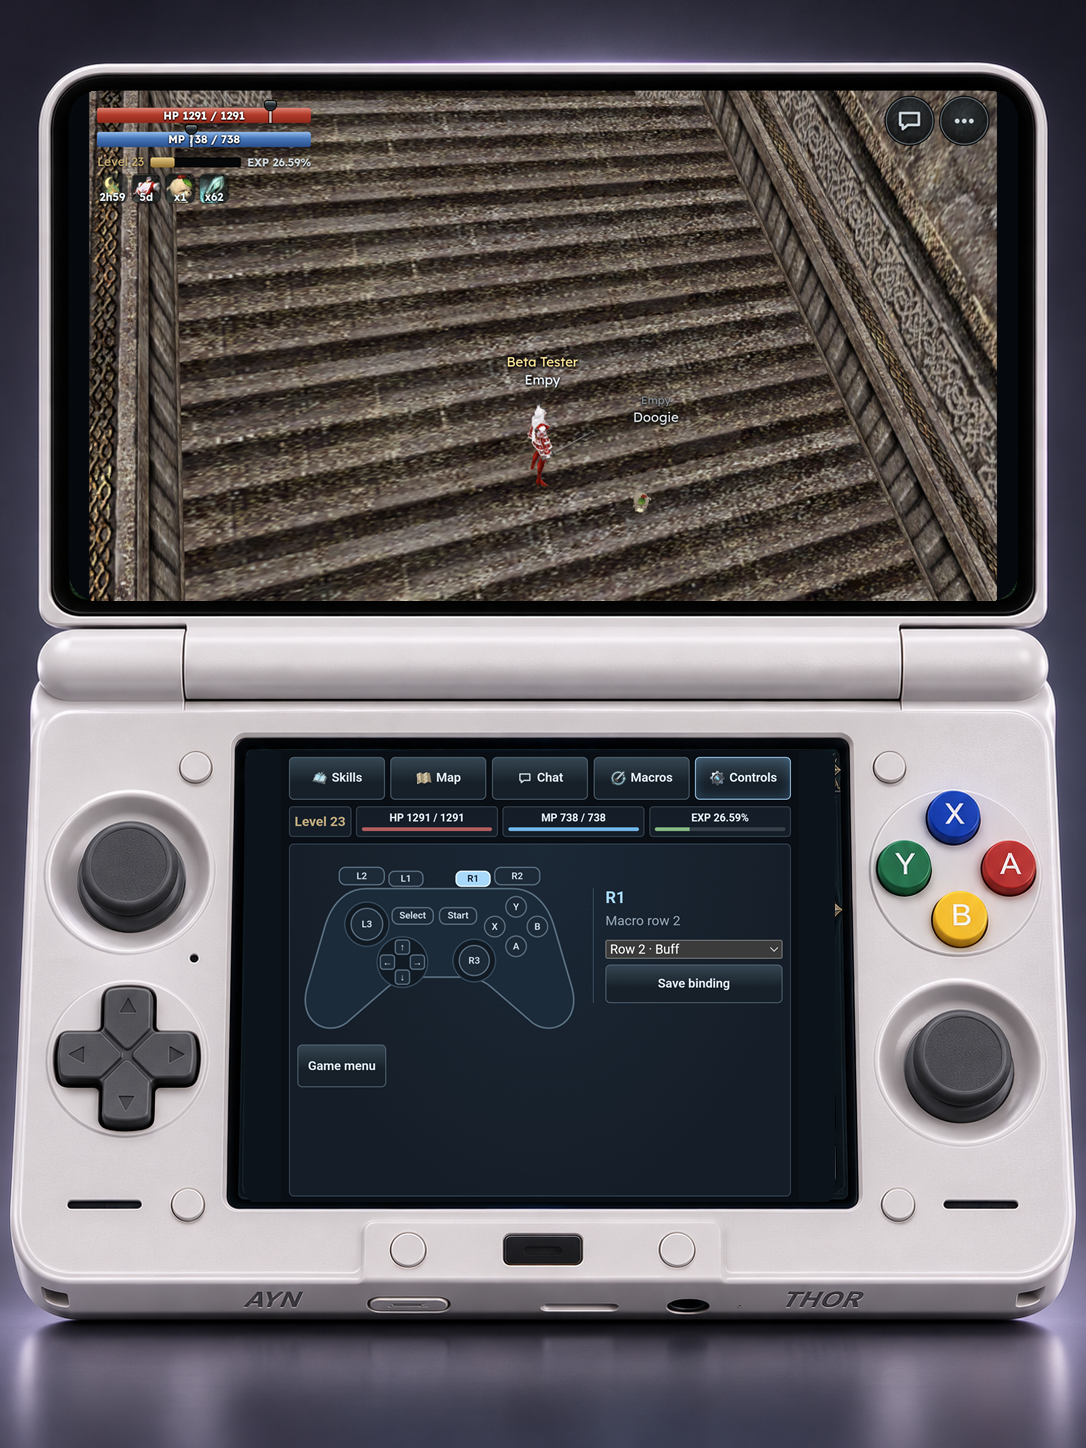
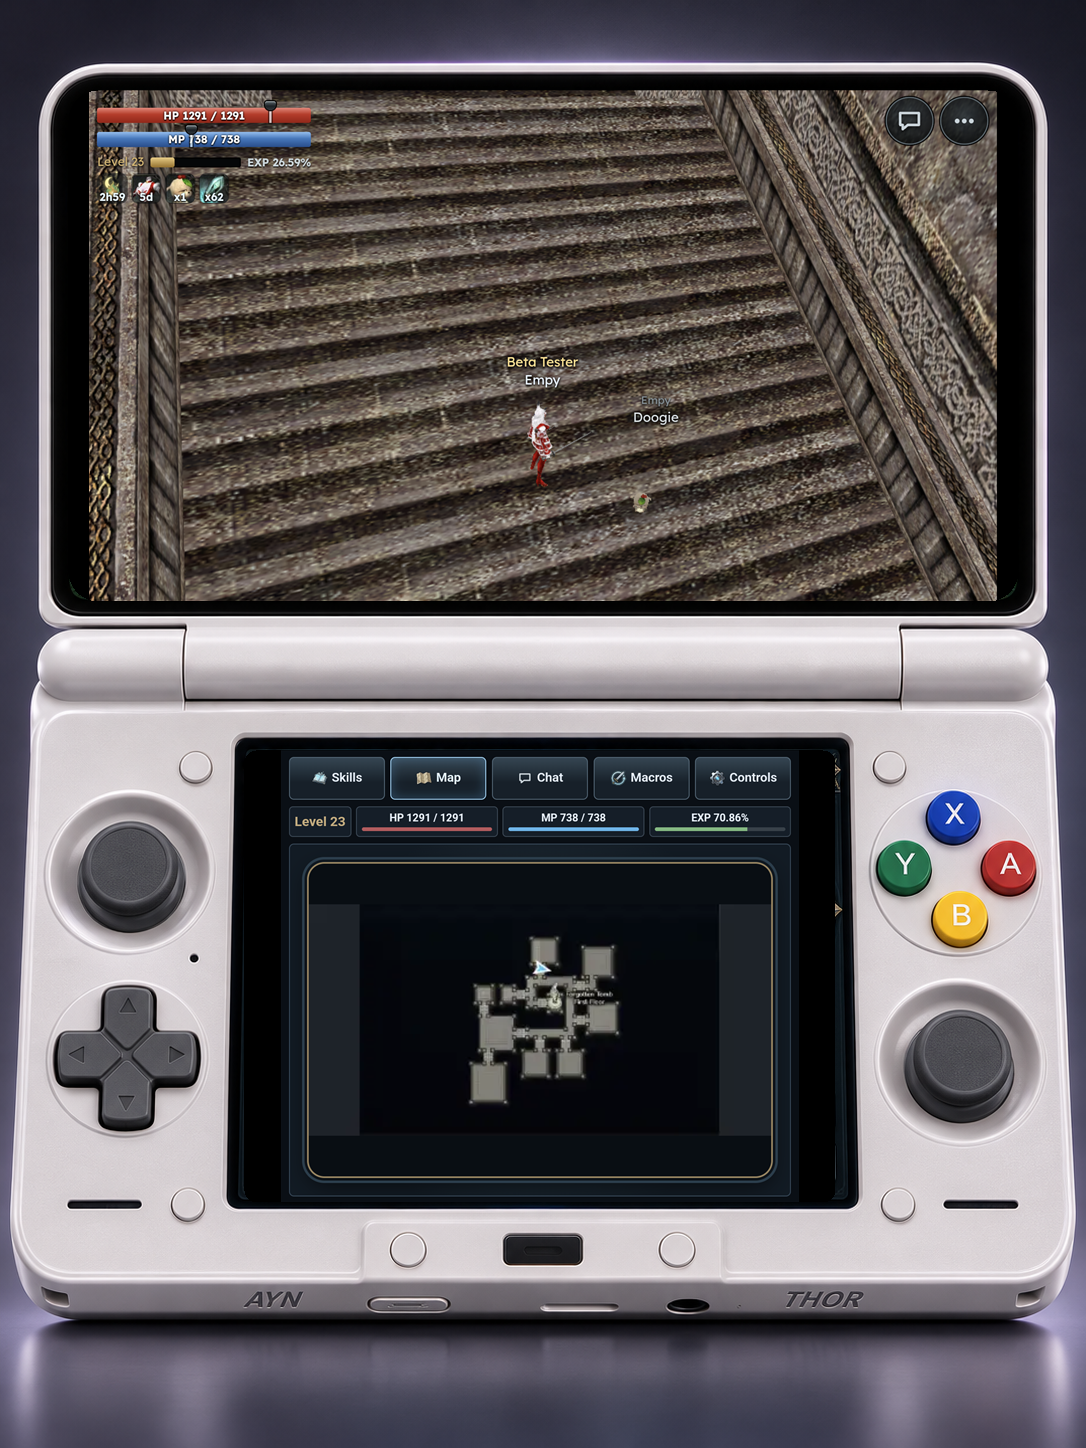
Support recorded controller combinations

Changed region(s): [[0.2127, 0.4972, 0.7901, 0.8391], [0.4254, 0.5283, 0.4558, 0.5594]]

diff --git a/assets/panel.html b/assets/panel.html
@@ -132,6 +132,7 @@ nav{gap:6px}nav button{min-height:44px}
 <script>
 const $=id=>document.getElementById(id), tabs=[...document.querySelectorAll('nav button')];
 const keys={'4':'X','5':'Y','6':'R1','A3':'L2','A4':'A','A5':'B','A6':'R2'};
+for(const [index,key] of Object.entries({0:'A4',1:'A5',2:'4',3:'5',5:'6',6:'A3',7:'A6'}))keys['C4_'+index]='L1 + '+keys[key];
 const padCodes={BUTTON_X:'2',BUTTON_Y:'3',BUTTON_R1:'4',BUTTON_L2:'5',BUTTON_A:'6',BUTTON_B:'7',BUTTON_R2:'8'};
 let d={},tab=0,mode=false,cursor=-1,group='inv',row=0,macroSlot=0,pending=false,complete,timer,restored=false,lastSelect=null,mapRequested=false;
 let skillBindings={},macroBindings={},whisper='', selectedSkill='', pickSkill=false, pickMacro=false;
@@ -184,6 +185,7 @@ window.padKey=k=>{
  if(k==='BUTTON_START'){if(mode)toggleNav();select(4);send('nav','start');return}
  const native={DPAD_UP:'up',DPAD_DOWN:'down',DPAD_LEFT:'left',DPAD_RIGHT:'right',DPAD_CENTER:'accept',BUTTON_A:'accept',BUTTON_B:'back'};
  if(d.nativeMenu&&native[k]){if(mode)toggleNav();send('nav',native[k]);return}
+ if(!d.nativeMenu&&!mode&&localHeld.has(4)&&index!==4&&index!=null&&activeBindings()['C4_'+index]){send('combo','C4_'+index);return}
  if(k==='BUTTON_THUMBL'||k==='BUTTON_THUMBR'){if(!mode&&!d.nativeMenu)send('combat',k==='BUTTON_THUMBL'?'target':'attack');return}
  if(k==='BUTTON_SELECT'||k==='BUTTON_MODE'){toggleNav();return}
  if(mode){
@@ -214,9 +216,9 @@ function captureRelease(){
  if(!capture)return;
  capture.pressed=new Set([...capture.pressed].filter(i=>localHeld.has(i)));
  if(capture.pressed.size)return;
- const values=[...capture.candidate],key=sourceFor[values[0]],binding=activeBindings()[key];
+ const values=[...capture.candidate],other=values.find(i=>i!==4),key=values.length===2&&values.includes(4)?'C4_'+other:sourceFor[values[0]],binding=activeBindings()[key];
  let error='';
- if(values.length!==1)error='Button combinations are not supported yet.';
+ if(values.length>1&&!(values.length===2&&values.includes(4)&&keys[key]))error='Use L1 with one assignable button.';
  else if(!key)error='This button is reserved for game controls.';
  else if(binding&&(capture.kind==='skill'?(binding.type!=='spell'||binding.value!==selectedSkill):(binding.type!=='macro'||binding.value!==String(row))))error='This button is already assigned to '+(binding.type==='macro'?'macro row '+(+binding.value+1):'a skill')+'.';
  capture.ready=!error;capture.key=key;

diff --git a/README.md b/README.md
@@ -2,7 +2,7 @@
 
 An independent Android companion for playing Kaldora on the AYN Thor. The game runs in Chrome on the upper display. The lower display shows game data and sends player-triggered actions through the local USB test bridge.
 
-![Kaldora gameplay and the Controls panel captured on an AYN Thor](docs/images/thor-live.png)
+![Kaldora gameplay and the Map panel captured on an AYN Thor](docs/images/thor-live.png)
 
 *Both displays were captured on a physical AYN Thor running Kaldora Thor 0.7. The console frame comes from the supplied reference.*
 
@@ -17,7 +17,7 @@ An independent Android companion for playing Kaldora on the AYN Thor. The game r
 | **L1** | Reserved. |
 | **Select** | Toggle navigation of the lower panel. |
 
-**Controls** shows the button being held and its current action. Press a configurable button, choose a skill or an available macro row, then select **Save binding**. **Skills** uses the game’s icons and cooldowns. **Macros** keeps the native rows and editable slots. Rows configured as buffs in Kaldora send the native buff command and need no enemy target. Each button and macro row can have one assignment at a time.
+**Controls** shows the button being held and its current action. Press a configurable button, choose a skill or an available macro row, then select **Save binding**. Skills and macro rows also offer button recording, including L1 combined with an assignable button. **Skills** uses the game’s icons and cooldowns. **Macros** keeps the native rows and editable slots. Rows configured as buffs in Kaldora send the native buff command and need no enemy target. Each button and macro row can have one assignment at a time.
 
 The lower Inventory tab is hidden for this version. Chat keeps its composer visible, and Map follows the character. Chrome requests fullscreen when focused gameplay is ready and the USB bridge is running. The APK uses English labels. The PC and USB debugging are required for live game data and actions.
 
